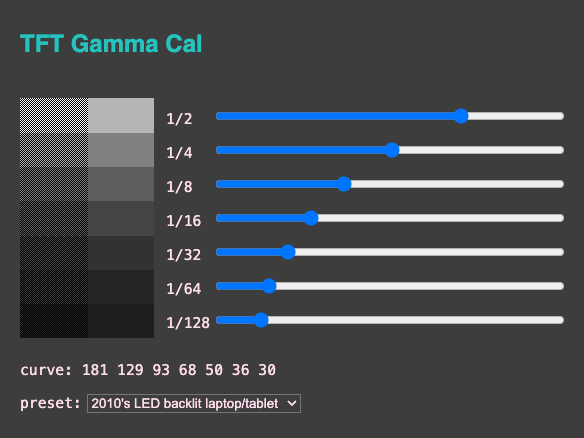
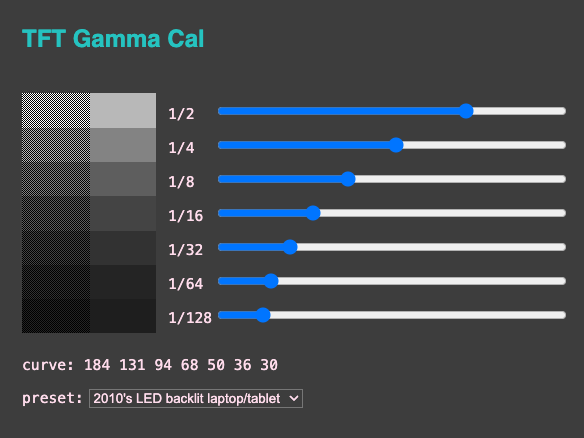
update mid 2010's curve

diff --git a/index.html b/index.html
@@ -64,7 +64,7 @@
 </p>
 
 <!-- mid-2010's CIE1976 82% (sRGB-ish) display:    171 127 97 74 56 41 30 -->
-<!-- average of mid-2010's tablet/laptop displays: 181 129 93 68 50 36 28 -->
+<!-- average of mid-2010's tablet/laptop displays: 184 131 94 68 50 36 28 -->
 <!-- average of 2020's P3 wide gamut displays:     185 135 97 71 51 36 27 -->
 <div>
 <label for="curve">preset:</label>

diff --git a/main.js b/main.js
@@ -99,7 +99,7 @@ function loadCurve(name) {
             break;
         case "2010s-LED":
             // Average of mid-2010's nice LED backlit tablet/laptop displays
-            curve = [181, 129, 93, 68, 50, 36, 28];
+            curve = [184, 131, 94, 68, 50, 36, 28];
             break;
         case "2020s-P3":
             // Average of 2020's P3 wide gamut displays
